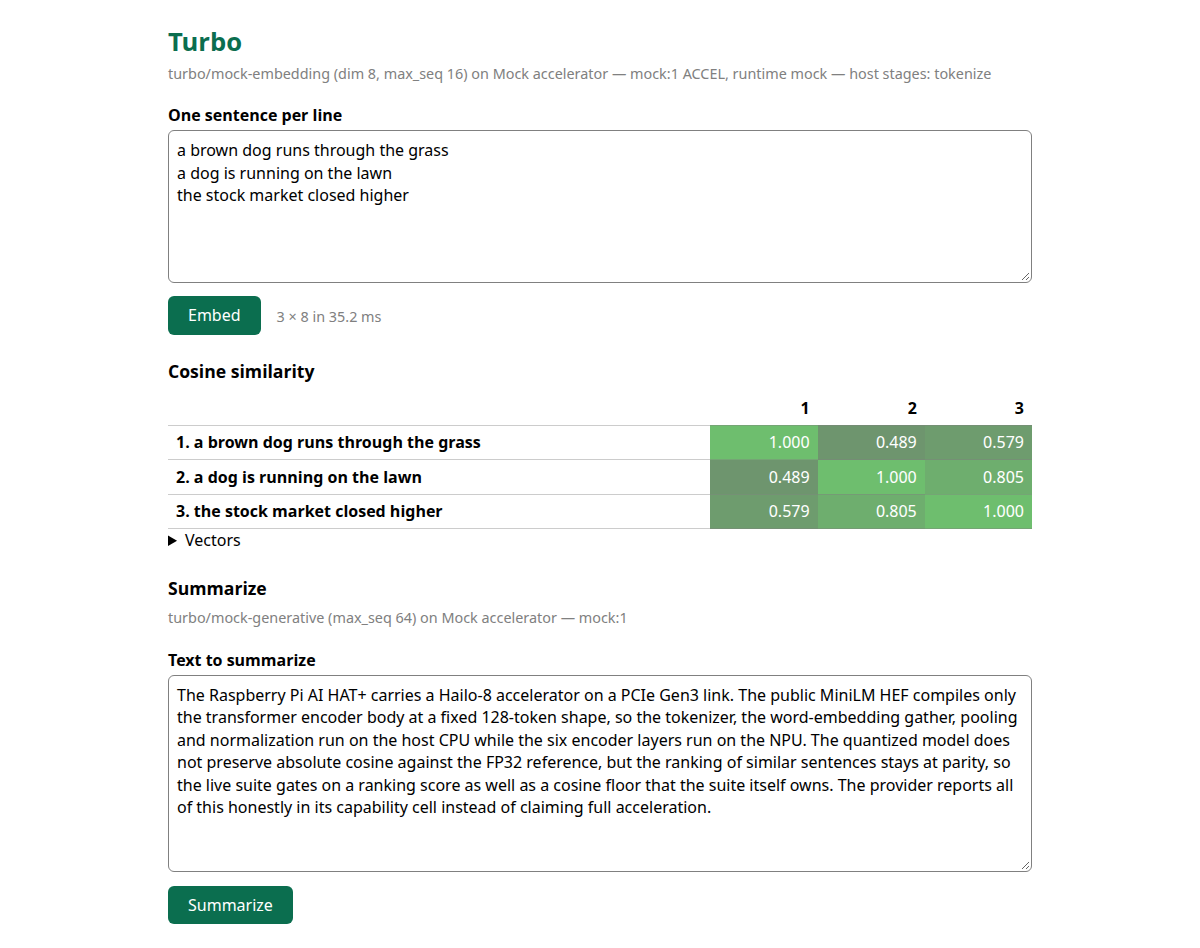
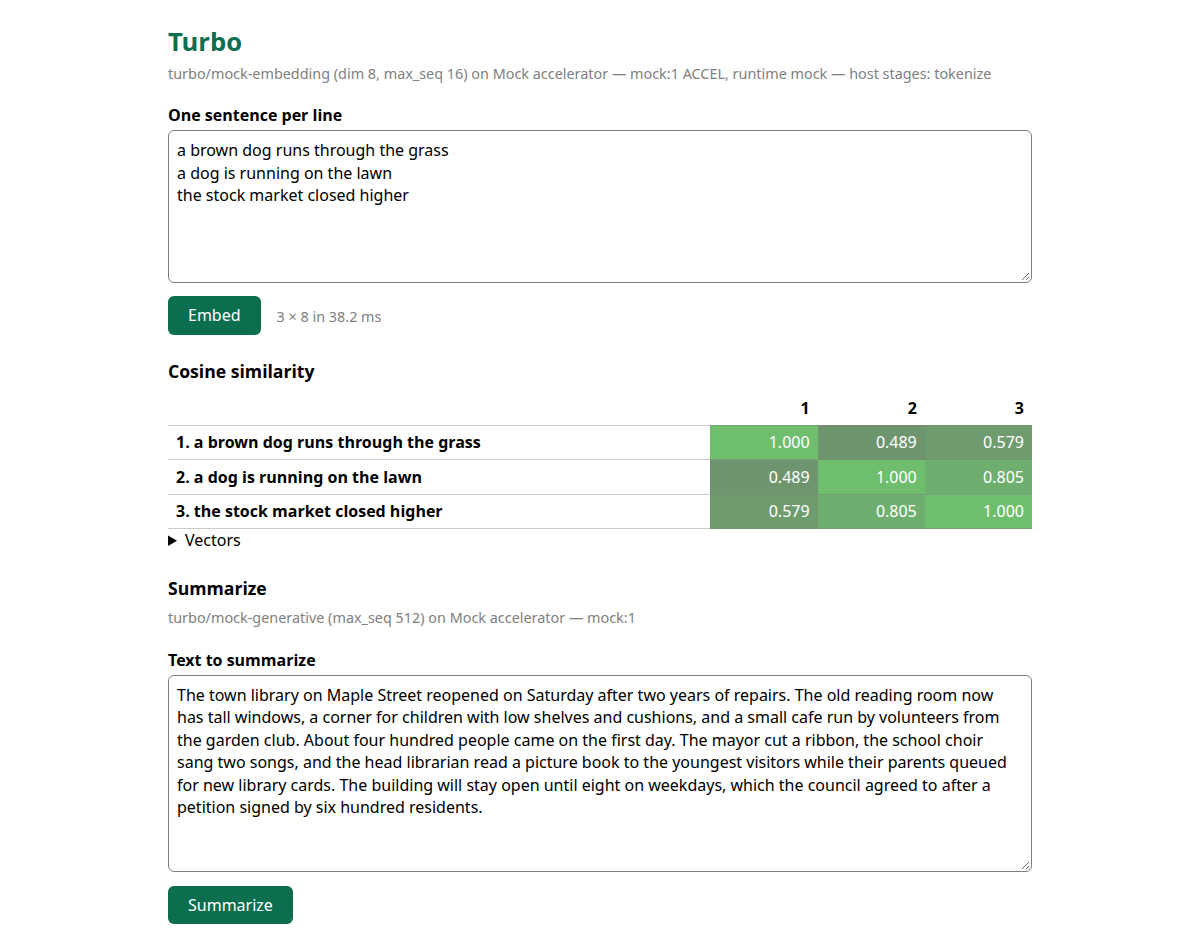
web demo: honest error text, one info fetch, a document a small model can summarize; the mock generative bundle allows 512 tokens; screenshots from one server with both models

Changed region(s): [[0.1542, 0.7036, 0.8633, 0.8565], [0.3392, 0.6424, 0.5242, 0.673]]

diff --git a/demo/java-web-spring/src/main/resources/static/app.js b/demo/java-web-spring/src/main/resources/static/app.js
@@ -1,4 +1,5 @@
-// The page talks to /api/info and /api/embed only; errors are shown verbatim.
+// The page talks to /api/info, /api/embed, and /api/summarize; errors are
+// shown verbatim.
 const $ = (id) => document.getElementById(id);
 
 async function loadInfo() {
@@ -8,6 +9,12 @@ async function loadInfo() {
   $("device").textContent =
     `${i.modelId} (dim ${i.dim}, max_seq ${i.maxSeq}) on ${i.deviceName} — ${i.providerId}:${i.ordinal} ${i.deviceKind}, runtime ${i.runtimeVersion}` +
     (i.fullyAccelerated ? "" : " — host stages: tokenize" );
+  if (i.generate) {
+    $("generator").textContent = `${i.generate.modelId} (max_seq ${i.generate.maxSeq}) on ${i.generate.deviceName} — ${i.generate.providerId}:${i.generate.ordinal}`;
+  } else {
+    $("generator").textContent = "no generative bundle configured (start with --turbo.generate-bundle=<dir>)";
+    $("summarize").disabled = true;
+  }
 }
 
 function heat(v) {
@@ -58,7 +65,7 @@ async function summarize() {
   const text = $("document").value;
   $("gen-error").hidden = true;
   $("summary").textContent = "";
-  $("summary").hidden = false;
+  $("summary").hidden = true; // shown with the first chunk
   $("summarize").disabled = true;
   $("gen-status").textContent = "generating…";
   const t0 = performance.now();
@@ -83,7 +90,7 @@ async function summarize() {
         }
         if (!data) continue;
         const payload = JSON.parse(data);
-        if (event === "chunk") { $("summary").textContent += payload.text; generated = payload.generated; }
+        if (event === "chunk") { $("summary").hidden = false; $("summary").textContent += payload.text; generated = payload.generated; }
         else if (event === "done") {
           const s = (performance.now() - t0) / 1000;
           $("gen-status").textContent = `${payload.generated} tokens in ${s.toFixed(1)} s (${(payload.generated / s).toFixed(1)} tok/s), finish ${payload.finish}, prompt ${payload.promptTokens} tokens`;
@@ -99,18 +106,6 @@ async function summarize() {
   }
 }
 
-async function loadGenerator() {
-  const r = await fetch("/api/info");
-  const i = await r.json();
-  if (i.generate) {
-    $("generator").textContent = `${i.generate.modelId} (max_seq ${i.generate.maxSeq}) on ${i.generate.deviceName} — ${i.generate.providerId}:${i.generate.ordinal}`;
-  } else {
-    $("generator").textContent = "no generative bundle configured (start with --turbo.generate-bundle=<dir>)";
-    $("summarize").disabled = true;
-  }
-}
-
 $("embed").addEventListener("click", embed);
 $("summarize").addEventListener("click", summarize);
-loadInfo().catch((e) => { $("device").textContent = String(e.message || e); });
-loadGenerator().catch((e) => { $("generator").textContent = String(e.message || e); });
+loadInfo().catch((e) => { $("device").textContent = String(e.message || e); $("generator").textContent = ""; });

diff --git a/demo/java-web-spring/src/main/resources/static/index.html b/demo/java-web-spring/src/main/resources/static/index.html
@@ -35,7 +35,7 @@ the stock market closed higher</textarea>
     <h2>Summarize</h2>
     <p id="generator" class="muted">checking for a generative model…</p>
     <label for="document">Text to summarize</label>
-    <textarea id="document" rows="8">The Raspberry Pi AI HAT+ carries a Hailo-8 accelerator on a PCIe Gen3 link. The public MiniLM HEF compiles only the transformer encoder body at a fixed 128-token shape, so the tokenizer, the word-embedding gather, pooling and normalization run on the host CPU while the six encoder layers run on the NPU. The quantized model does not preserve absolute cosine against the FP32 reference, but the ranking of similar sentences stays at parity, so the live suite gates on a ranking score as well as a cosine floor that the suite itself owns. The provider reports all of this honestly in its capability cell instead of claiming full acceleration.</textarea>
+    <textarea id="document" rows="8">The town library on Maple Street reopened on Saturday after two years of repairs. The old reading room now has tall windows, a corner for children with low shelves and cushions, and a small cafe run by volunteers from the garden club. About four hundred people came on the first day. The mayor cut a ribbon, the school choir sang two songs, and the head librarian read a picture book to the youngest visitors while their parents queued for new library cards. The building will stay open until eight on weekdays, which the council agreed to after a petition signed by six hundred residents.</textarea>
     <div class="row">
       <button id="summarize" type="button">Summarize</button>
       <span id="gen-status" class="muted" aria-live="polite"></span>

diff --git a/demo/java-web-spring/e2e/tests/summarize.spec.ts b/demo/java-web-spring/e2e/tests/summarize.spec.ts
@@ -88,8 +88,9 @@ test("a prompt over the generative model's max_seq shows the library's refusal",
     await open(page);
 
     const info = await (await request.get("/api/info")).json();
-    // The page ships a long default document; the mock generative bundle's
-    // max_seq is small, so this is the mid-stream "error" event path.
+    // A document longer than the generative model's context: the refusal
+    // arrives mid-stream as an "error" event, not as an HTTP status.
+    await setDocument(page, `${SHORT_DOCUMENT} `.repeat(info.generate.maxSeq));
     const refusal = await summarizeExpectingError(page);
     expect(refusal, "the refusal does not name the capacity limit").toContain("TURBO_E_CAPACITY");
     expect(refusal).toContain(`max_seq is ${info.generate.maxSeq}`);

diff --git a/demo/java-web-spring/e2e/tests/app.ts b/demo/java-web-spring/e2e/tests/app.ts
@@ -80,7 +80,7 @@ export async function matrixRowLabels(page: Page): Promise<string[]> {
     return page.locator("#matrix tr th.text").allInnerTexts();
 }
 
-/** A document short enough for the mock generative bundle's 64-token max_seq. */
+/** A short document that fits any generative bundle's context with room for the summary. */
 export const SHORT_DOCUMENT =
     "The provider reports its capabilities honestly instead of claiming full acceleration.";
 

diff --git a/crates/turbo-core/src/mock.rs b/crates/turbo-core/src/mock.rs
@@ -1233,7 +1233,7 @@ pub fn write_mock_bundle(dir: &Path, kind: MockBundleKind) -> Result<String> {
             "token_classifier",
             serde_json::json!({ "max_seq": 16, "labels": ["O", "PER", "LOC"], "aggregation": "simple", "activation": "softmax", "tagging": "BIO" }),
         ),
-        MockBundleKind::Generative => ("generate", "generative", serde_json::json!({ "max_seq": 64 })),
+        MockBundleKind::Generative => ("generate", "generative", serde_json::json!({ "max_seq": 512 })),
         MockBundleKind::Generic => ("run", "generic", serde_json::json!({})),
     };
     let manifest = serde_json::json!({

diff --git a/demo/java-web-spring/src/main/java/ai/pipestream/turbo/web/SummarizeController.java b/demo/java-web-spring/src/main/java/ai/pipestream/turbo/web/SummarizeController.java
@@ -59,7 +59,7 @@ public class SummarizeController {
             } catch (IOException e) {
                 emitter.complete(); // the client went away after the last chunk
             } catch (TurboException e) {
-                fail(emitter, e.statusName() + (e.field() != 0 ? " (field " + e.field() + ")" : "") + ": " + e.getMessage());
+                fail(emitter, e.getMessage()); // already carries the status name and field
             } catch (TurboService.Overloaded | IllegalArgumentException | IllegalStateException e) {
                 fail(emitter, e.getMessage());
             }

diff --git a/README.md b/README.md
@@ -17,7 +17,8 @@ normalization, limits, prefixes) is frozen in a hash-verified bundle.
 ![The web demo: sentences in, a cosine similarity heat map out, and the device it ran on](demo/java-web-spring/docs/screenshots/page-minilm.png)
 
 The same app streams a summary from a GGUF model through the ggml
-provider (Qwen2.5-0.5B on an RTX 4080 SUPER here, 462 tokens/s):
+provider (Qwen2.5-0.5B on an RTX 4080 SUPER here, 410 tokens/s; a 0.5B
+model summarizes by trimming, which the screenshot shows as it is):
 
 ![The web demo's summarizer: a paragraph in, a streamed three-sentence summary out, with the token rate and finish reason](demo/java-web-spring/docs/screenshots/summary-qwen.png)
 
